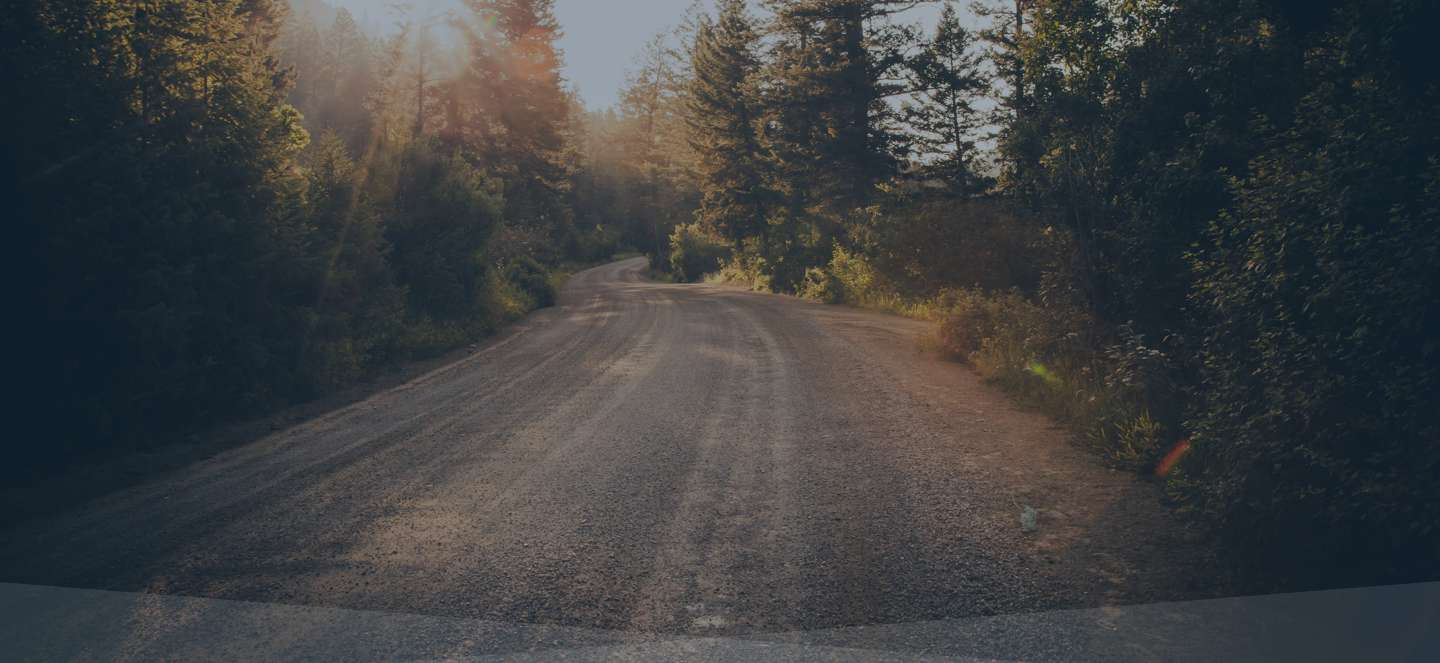
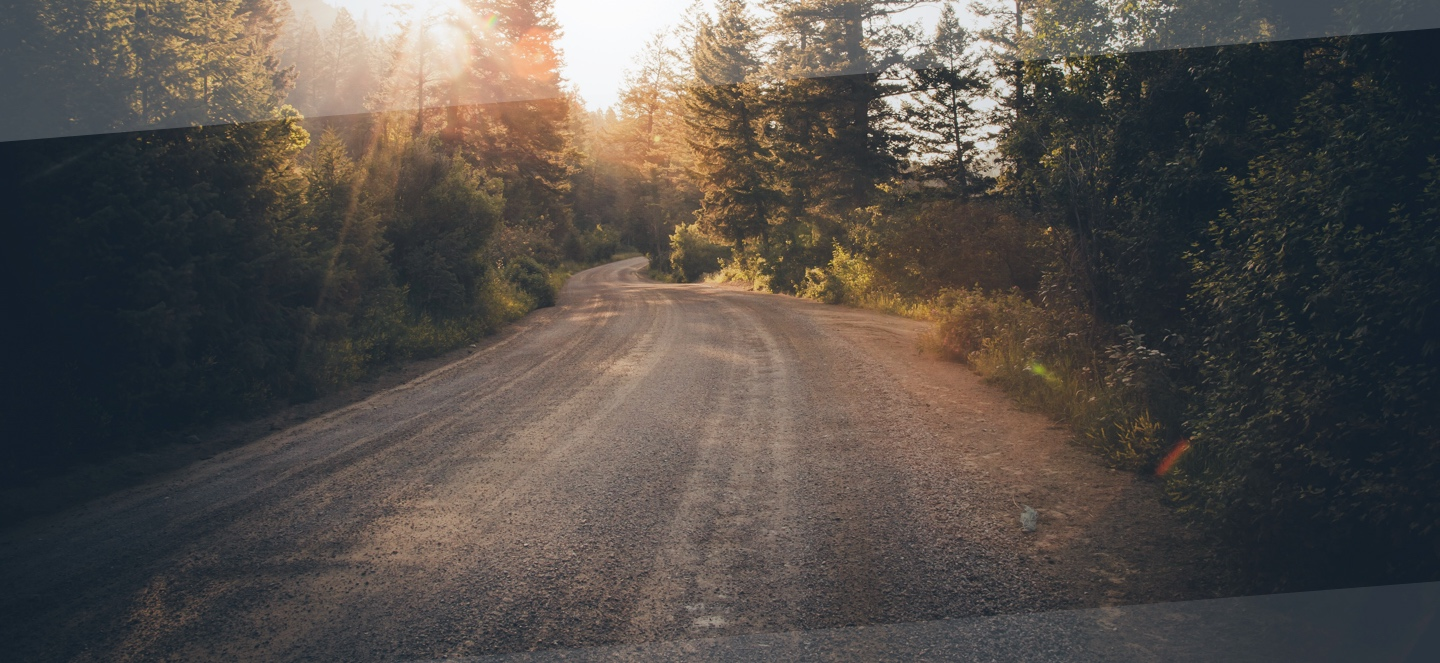
Update hero image
Update hero image. Update logo to better sit on top of the hero image.

diff --git a/app/assets/stylesheets/application.css.scss b/app/assets/stylesheets/application.css.scss
@@ -342,28 +342,23 @@ $app-container-top-padding: 40px;
 
 .app-header__subtitle {
   @extend %app-typography--caption;
-
-  margin-top: 8px;
-  color: rgba(#fff, 0.4);
+  font-weight: 600;
 }
 
 .app-header__headline {
   @extend %app-typography--display-1;
-
-  color: #fff;
+  @extend %app-typygraphy--hero;
   margin: 120px 0 60px;
 }
 
 .app-header__subhead-1 {
   @extend %app-typography--display-3;
-
-  color: #fff;
+  @extend %app-typygraphy--hero;
 }
 
 .app-header__subhead-2 {
   @extend %app-typography--body-1;
-
-  color: #fff;
+  @extend %app-typygraphy--hero;
 }
 
 .app-header__logos {

diff --git a/app/assets/components/logo/index.css.scss b/app/assets/components/logo/index.css.scss
@@ -2,7 +2,7 @@
 
 .app-logo {
   color: $color-logo;
-  font-weight: 500;
+  font-weight: 600;
 }
 
 .app-logo__beta {
@@ -11,9 +11,13 @@
 }
 
 .app-logo--single-color {
-  color: rgba(#fff, 0.8);
+  color: #2d3029;
 
   .app-logo__beta {
     color: inherit;
   }
+}
+
+.app-header__subtitle {
+	color: #2d3029;
 }

diff --git a/app/assets/stylesheets/_typography.scss b/app/assets/stylesheets/_typography.scss
@@ -86,5 +86,10 @@ $typography-size-body-1: 19px;
   line-height: 20px;
 }
 
+%app-typygraphy--hero {
+  color: #fff;
+  text-shadow: 0 -1px 0 rgba(45, 48, 41, 0.75);
+}
+
 // materialize overrides:
 $input-font-size: 16px; // app-typography--body-2
